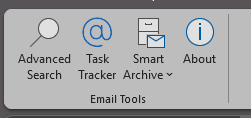
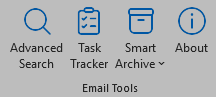
Update GitHub page UI assets and docs to reflect v1.1.5 design

diff --git a/README.md b/README.md
@@ -23,7 +23,7 @@ Outlook is the backbone of daily business communication, but large mailboxes ine
 **Email Tools** is a lightweight, high-performance VSTO add-in engineered to solve these core limitations without requiring third-party cloud services or enterprise IT administrative rights. Everything runs locally on your PC, yielding **sub-10ms search results**, **automated email-to-task workflow management**, **smart seasonal archiving**, **one-click attachment actions**, and **automated GAL directory synchronization**.
 
 <p align="center">
-  <img src="assets/outlook-ribbon-tab.png" alt="Email Tools Ribbon Tab in Microsoft Outlook" width="600">
+  <img src="assets/outlook-ribbon-tab.png" alt="Email Tools Ribbon Tab in Microsoft Outlook" width="260">
 </p>
 
 ---
@@ -96,7 +96,7 @@ Never let critical commitments, pending customer requests, or follow-ups slip th
 Never receive an Exchange *"Mailbox Quota Exceeded"* warning again. Smart Archive moves aging emails from your live Exchange mailbox into neatly organized, seasonal local PST archives (e.g., `2026-Season1.pst`).
 
 <p align="center">
-  <img src="assets/smart-archive-menu.png" alt="Smart Archive Ribbon Menu" width="400">
+  <img src="assets/smart-archive-menu.png" alt="Smart Archive Ribbon Menu" width="280">
 </p>
 
 * **Fluent 2 Status & Health Cockpit:** Visual progress gauges showing live Exchange mailbox quota usage (with dynamic green/orange/red capacity thresholds) and archive drive free/total capacity meters.
@@ -114,17 +114,18 @@ Never receive an Exchange *"Mailbox Quota Exceeded"* warning again. Smart Archiv
 
 ---
 
-### 4. Attachment Actions on the Home Ribbon
+### 4. Attachment & Quick Workflow Actions on the Home Ribbon
 
-Eliminate repetitive attachment management steps directly from Outlook's main **Home** tab.
+Eliminate repetitive attachment and workflow steps directly from Outlook's main **Home** tab.
 
 <p align="center">
-  <img src="assets/attachment-actions.png" alt="Attachment Actions in Outlook Home Tab" width="440">
+  <img src="assets/attachment-actions.png" alt="Attachment and Workflow Actions in Outlook Home Tab" width="420">
 </p>
 
 * **Reply with Attachment(s):** Composes a reply while automatically cloning and preserving all original files.
 * **Reply All with Attachment(s):** Keeps all original attachments intact while replying to all original participants.
 * **Forward without Attachment(s):** Strips bulky attached files to save bandwidth while intelligently retaining embedded company signature images.
+* **Track as Task:** Instant 1-click email-to-task conversion with direct synchronization into the Task Tracker dashboard.
 
 ---
 

diff --git a/README.fa.md b/README.fa.md
@@ -27,7 +27,7 @@
 </p>
 
 <p align="center">
-  <img src="assets/outlook-ribbon-tab.png" alt="زبانهٔ Email Tools در ریبون اوتلوک" width="600">
+  <img src="assets/outlook-ribbon-tab.png" alt="زبانهٔ Email Tools در ریبون اوتلوک" width="260">
 </p>
 
 ---
@@ -163,7 +163,7 @@
 </p>
 
 <p align="center">
-  <img src="assets/smart-archive-menu.png" alt="منوی بایگانی هوشمند در ریبون" width="400">
+  <img src="assets/smart-archive-menu.png" alt="منوی بایگانی هوشمند در ریبون" width="280">
 </p>
 
 <ul dir="rtl" align="right">
@@ -183,20 +183,21 @@
 
 ---
 
-<h3 dir="rtl" align="right">۴. عملیات یککلیکی فایلهای پیوست در ریبون Home</h3>
+<h3 dir="rtl" align="right">۴. عملیات یککلیکی فایلهای پیوست و گردش کار در ریبون Home</h3>
 
 <p dir="rtl" align="right">
-سه دکمهٔ پرکاربرد مستقیماً در زبانهٔ اصلی اوتلوک برای افزایش سرعت مکاتبات روزمره:
+دکمههای پرکاربرد مستقیماً در زبانهٔ اصلی اوتلوک برای افزایش سرعت مکاتبات و پیگیری وظایف روزمره:
 </p>
 
 <p align="center">
-  <img src="assets/attachment-actions.png" alt="دکمههای مدیریت پیوست در زبانهٔ Home" width="440">
+  <img src="assets/attachment-actions.png" alt="دکمههای مدیریت پیوست و گردش کار در زبانهٔ Home" width="420">
 </p>
 
 <ul dir="rtl" align="right">
   <li><strong>پاسخ با پیوستها (Reply with Attachment):</strong> ایجاد ایمیل پاسخ در حالی که تمام فایلهای پیوست پیام اصلی عینا تکثیر و حفظ میشوند.</li>
   <li><strong>پاسخ به همه با پیوستها (Reply All with Attachment):</strong> ارسال پاسخ برای تمام افراد حاضر در رونوشت همراه با فایلهای اصلی.</li>
   <li><strong>فوروارد بدون پیوست (Forward without Attachment):</strong> حذف فایلهای حجیم برای صرفهجویی در پهنای باند با حفظ هوشمندانهٔ تصاویر امضای شرکتی.</li>
+  <li><strong>ثبت سریع به عنوان وظیفه (Track as Task):</strong> تبدیل یککلیکی ایمیل به وظیفه و همگامسازی فوری با پنل مدیریت وظایف (Task Tracker).</li>
 </ul>
 
 ---
